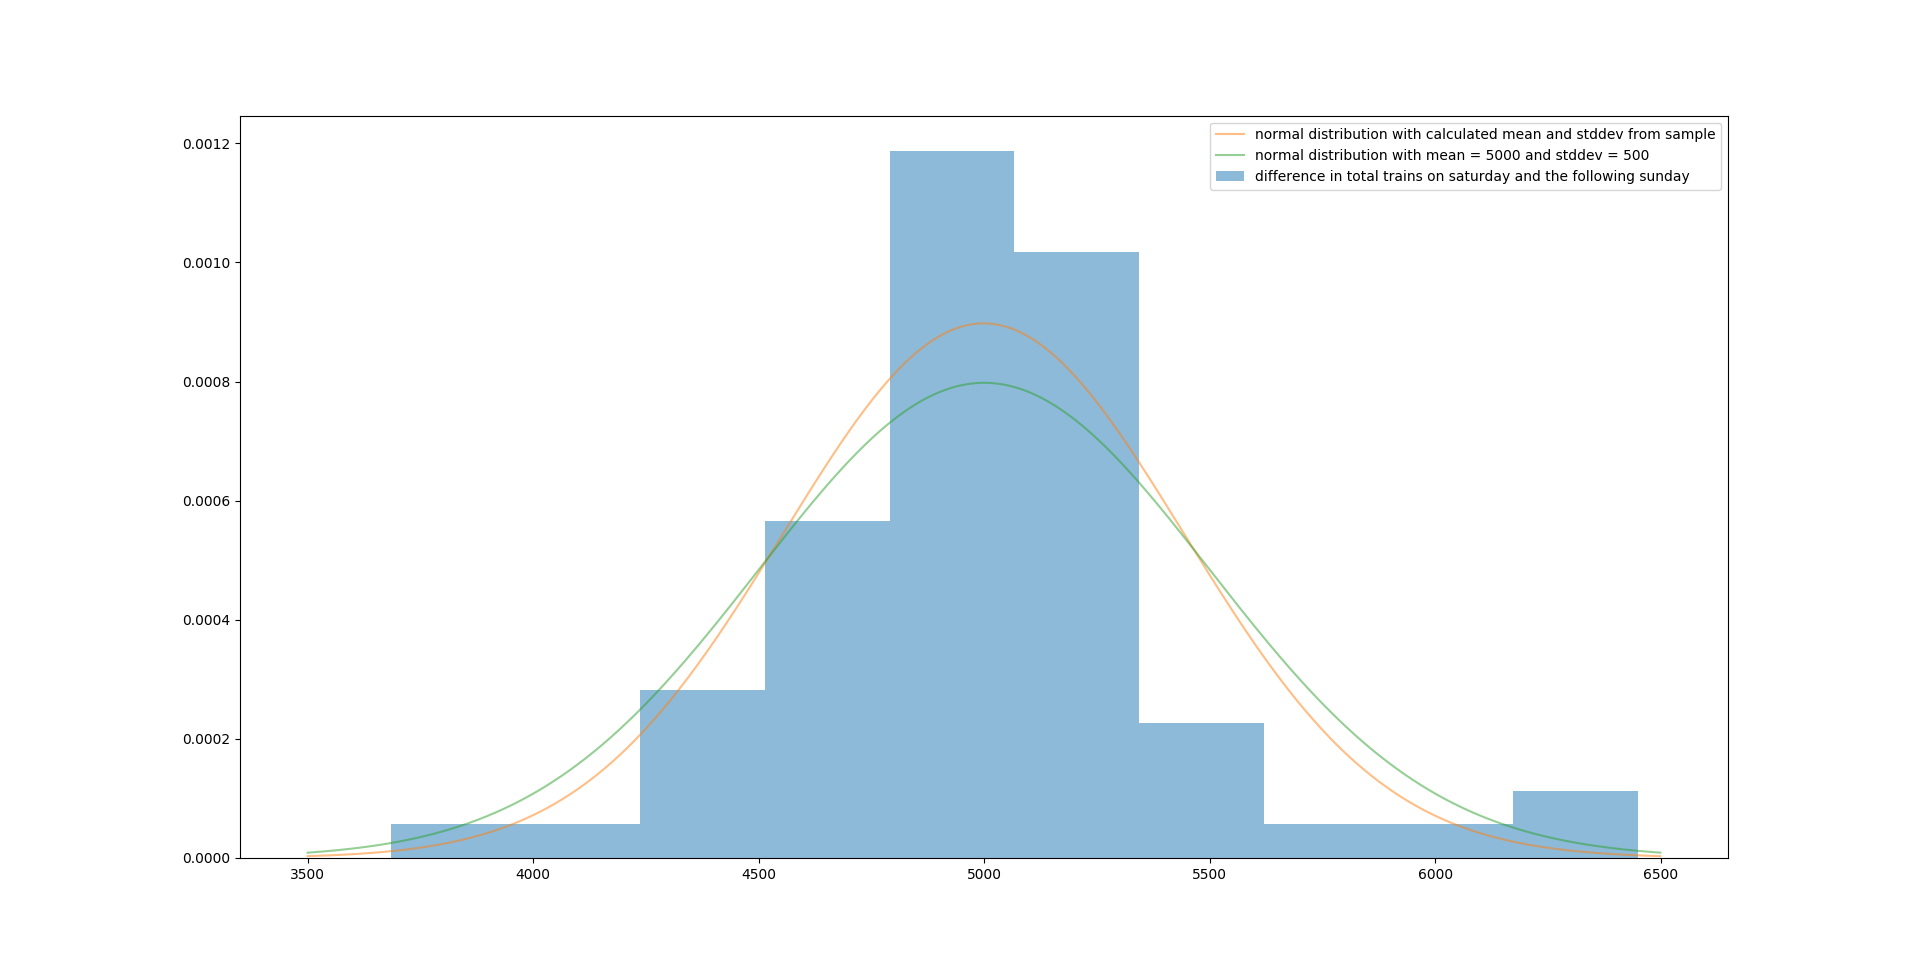
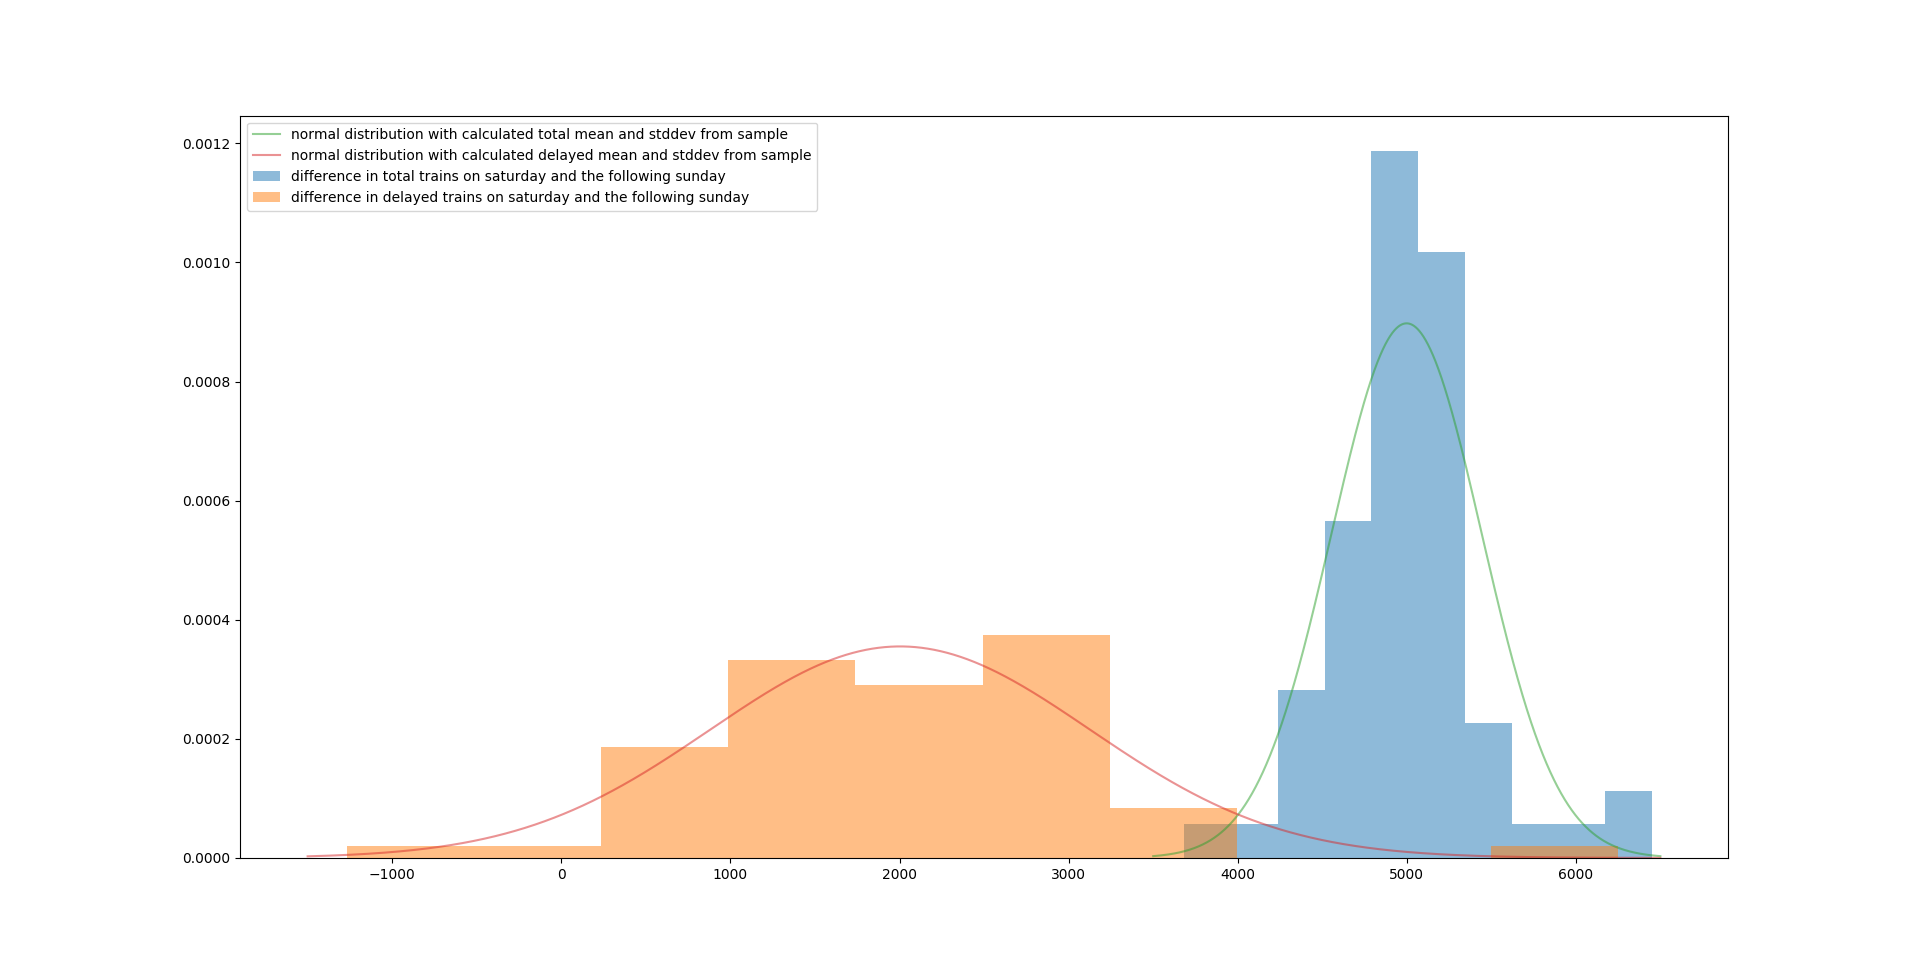
included normality tests in overtime_weekend_diffs.py

Changed region(s): [[0.125, 0.1245, 0.9062, 0.9336], [0.625, 0.5913, 0.6562, 0.6535]]

diff --git a/experiments/overtime_weekend_diffs.py b/experiments/overtime_weekend_diffs.py
@@ -1,4 +1,5 @@
 #histogram showing difference of stops and delays per date (total), filtering out weekdays for smoother lines
+import scipy.stats as st
 import matplotlib.pyplot as plt
 import csv
 import datetime
@@ -65,7 +66,39 @@ for key in delayed_trains.keys():
 for i in range(len(delayed_sat)):
     delayed_diffs.append(delayed_sat[i] - delayed_sun[i])
 
-plt.hist(total_diffs, alpha=0.5, label="difference in total trains on saturday and the following sunday")
-plt.hist(delayed_diffs, alpha=0.5, label="difference in delayed trains on saturday and the following sunday")
+total_mean_diffs = sum(total_diffs)/len(total_diffs)
+delayed_mean_diffs = sum(delayed_diffs)/len(delayed_diffs)
+
+def stddev(sample, mean):
+    diffs = []
+    for num in sample:
+        diffs.append((num - mean)**2)
+
+    variance = sum(diffs)/len(diffs)
+    return variance**0.5
+
+total_std_diffs = stddev(total_diffs, total_mean_diffs)
+print("calculated total mean is %s" % (total_mean_diffs))
+print("calculated total standard deviation is %s" % (total_std_diffs))
+delayed_std_diffs = stddev(delayed_diffs, delayed_mean_diffs)
+print("calculated delayed mean is %s" % (delayed_mean_diffs))
+print("calculated delayed standard deviation is %s" % (delayed_std_diffs))
+
+_, total_p = st.kstest(total_diffs, 'norm', (total_mean_diffs, total_std_diffs))
+_, delayed_p = st.kstest(delayed_diffs, 'norm', (delayed_mean_diffs, delayed_std_diffs))
+print("calculated p-value from normal distribution with calculated total mean and standard deviation is %s (no rejection)" % (total_p))
+print("calculated p-value from normal distribution with calculated delayed mean and standard deviation is %s (no rejection)" % (delayed_p))
+
+total_xs = range(3500,6500)
+delayed_xs = range(-1500, 6500)
+
+total_ys = st.norm.pdf(total_xs, loc=total_mean_diffs, scale=total_std_diffs)
+delayed_ys = st.norm.pdf(delayed_xs, loc=delayed_mean_diffs, scale=delayed_std_diffs)
+
+plt.hist(total_diffs, alpha=0.5, density=True, label="difference in total trains on saturday and the following sunday")
+plt.hist(delayed_diffs, alpha=0.5, density=True, label="difference in delayed trains on saturday and the following sunday")
+plt.plot(total_xs, total_ys, alpha=0.5, label="normal distribution with calculated total mean and stddev from sample")
+plt.plot(delayed_xs, delayed_ys, alpha=0.5, label="normal distribution with calculated delayed mean and stddev from sample")
+
 plt.legend()
 plt.show()
